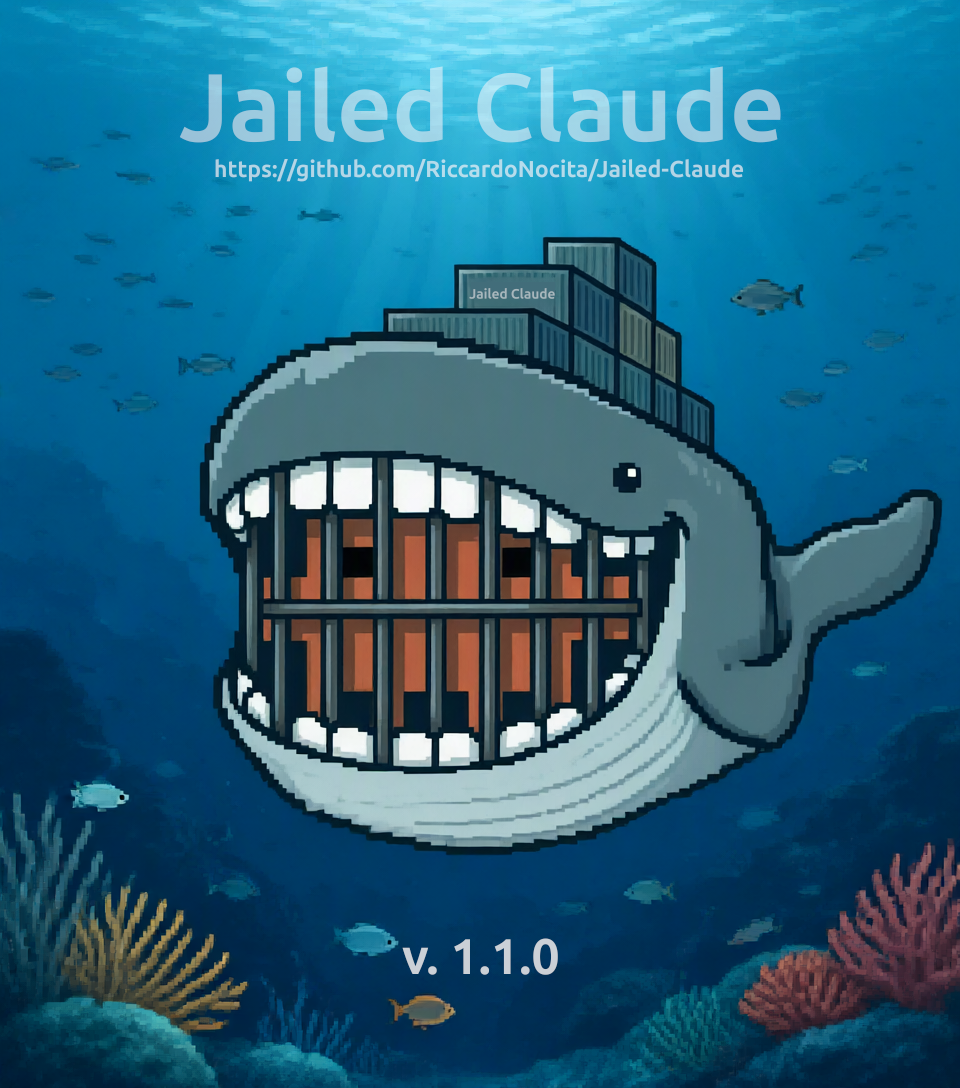
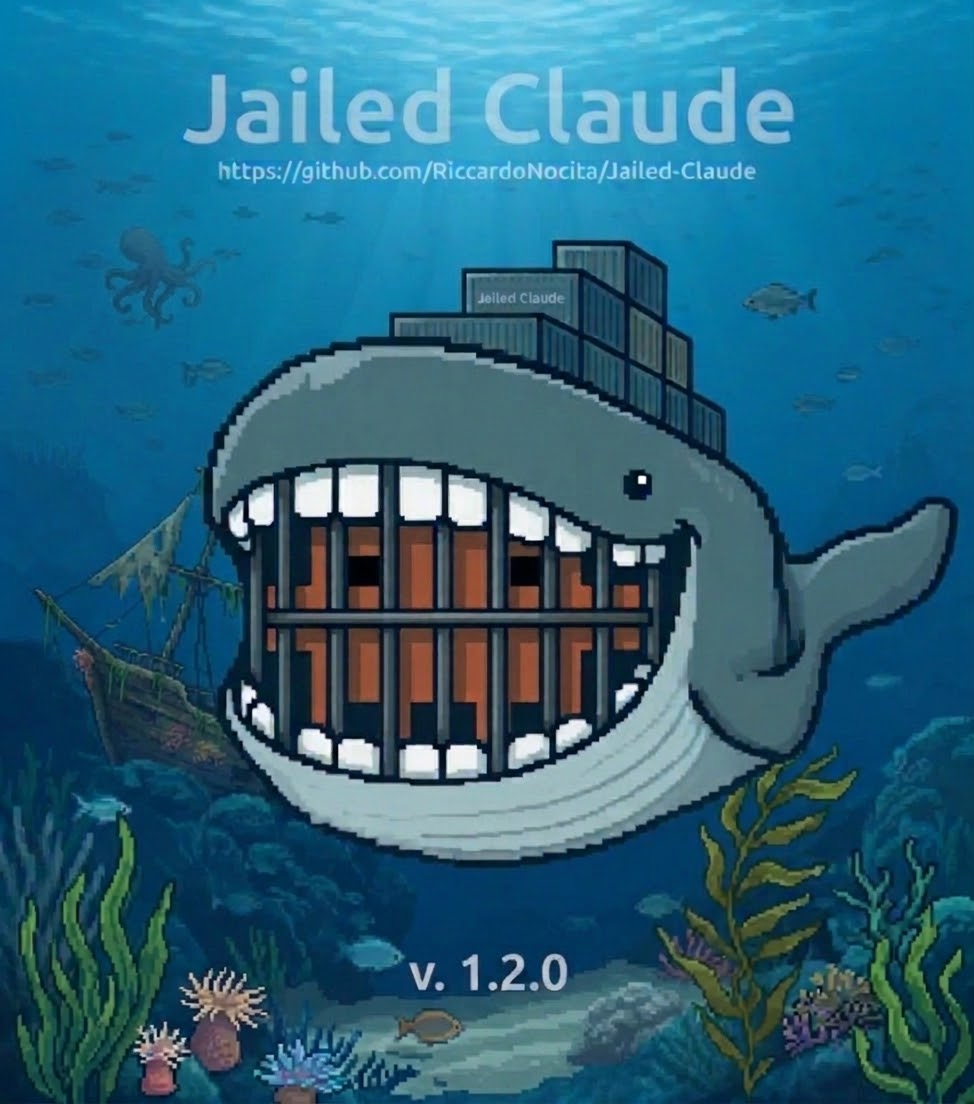
JC - Release 1.2.0

diff --git a/CHANGELOG.md b/CHANGELOG.md
@@ -1,18 +1,13 @@
 # Changelog
 
 ---
-## Unreleased
+
+## 1.2.0
 
 ### Added
 - `JAILED_HIDDEN_PATHS`: hide files/folders of the working dir behind empty decoys mounted from `/tmp`; settable from the host env and/or the selected conf file (lists are merged)
 - `JAILED_EXPOSE_PATHS`: mount folders/files outside the working dir (e.g. `~/.m2` to reuse the Maven cache) at the same path, read-write or `:ro`; dangerous entries (`/`, home, system dirs, container sockets, working dir, `~/.claude`) are refused; settable from the host env and/or the selected conf file (lists are merged)
 - `JAILED_STRICT_ALLOWED_HOSTS`: extra endpoints (`host`, `host:port`, `ip`, `ip:port`; comma/space separated) allowed in `--strict` mode on top of the `ANTHROPIC_BASE_URL` one; settable from the host env and/or the selected conf file (lists are merged). Entries without a port allow every TCP port of that host
-
-### Changed
-- `--strict` sidecar protocol: `strict-init.sh` now takes a single `STRICT_ALLOW` list
-
-
----
 
 ## 1.1.1
 
